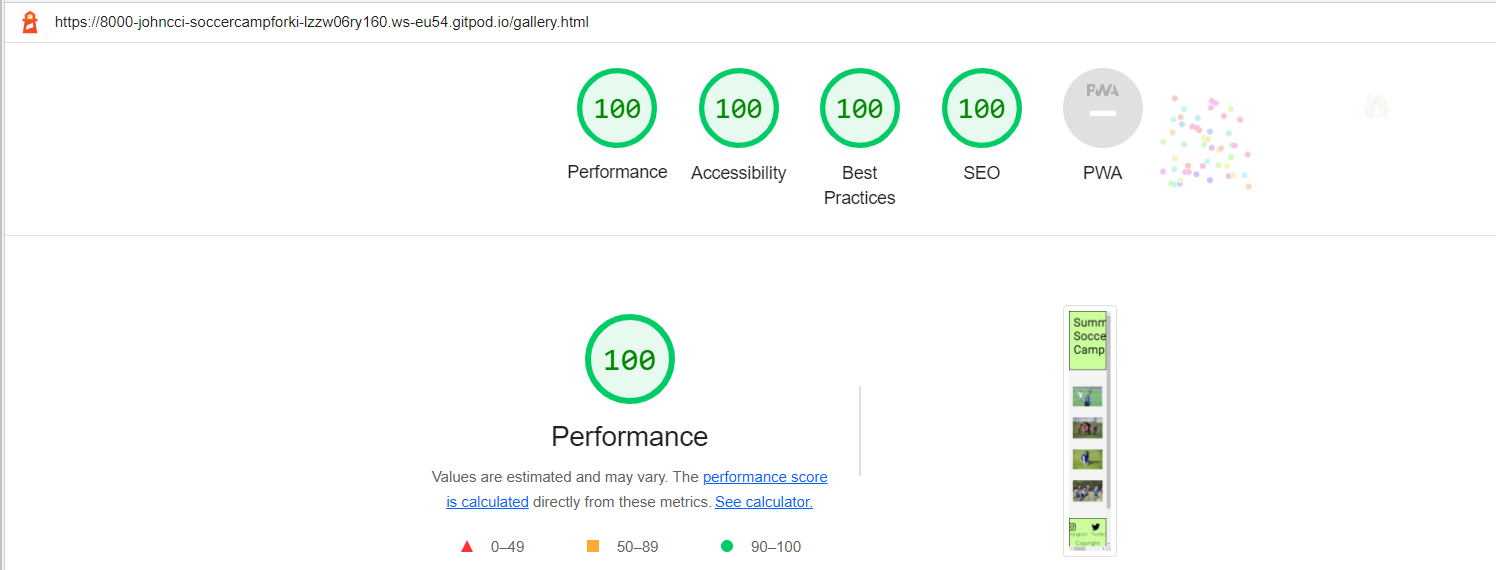
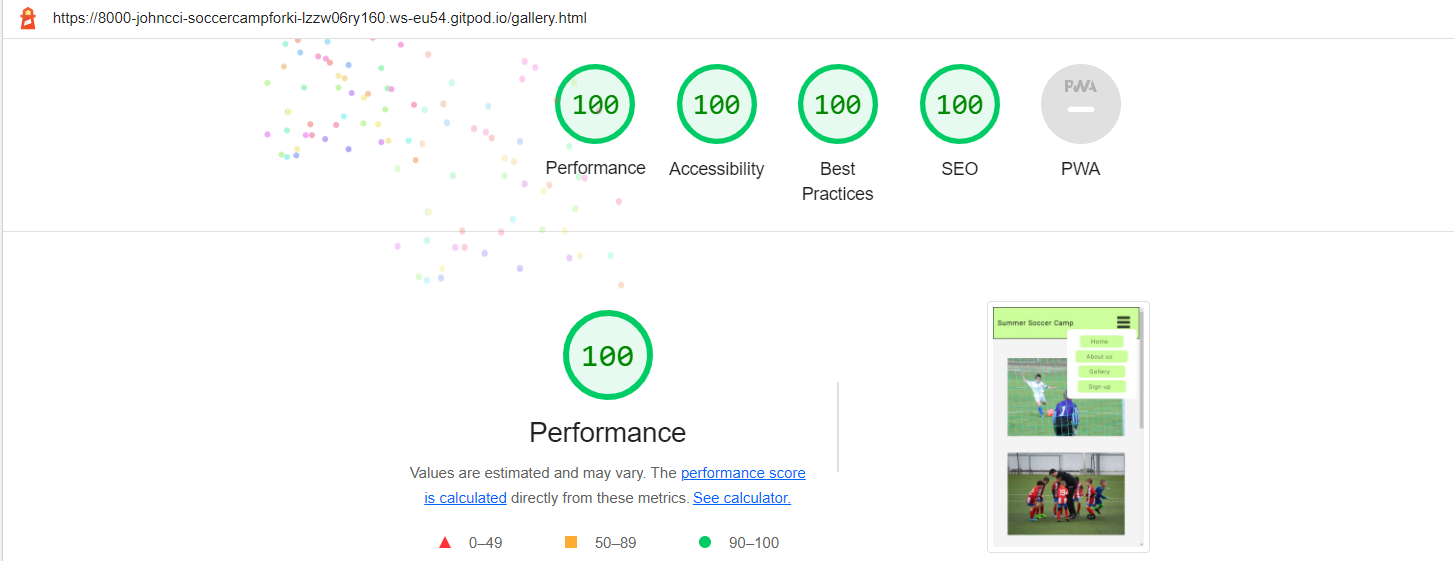
update lighthouse section to reflect improved scores by adding text and new images

diff --git a/README.md b/README.md
@@ -305,17 +305,17 @@ The other colours displayed on the site are whitesmoke and black. The whitesmoke
 
 ## <u>**LightHouse**</u>
 
-I applied the lighthouse tool to this project which is located in the Chrome Developer Tools. The four tests performed in this tool are:
+* I applied the lighthouse tool to this project which is located in the Chrome Developer Tools. There are four areas tested in the lighthouse test.
+
+
+  * Performance
+  * Accessibility
+  * Best Practices
+  * SEO
+
 <br>
 
-* Performance
-* Accessibility
-* Best Practices
-* SEO
-
-<br>
-
-### **Home Page**
+* Home Page
 
 The following images in this section are displayed as lighthouse desktop as the first image and lighthouse mobile as the second image.
 <br>
@@ -326,8 +326,7 @@ The following images in this section are displayed as lighthouse desktop as the 
 2. I used the website [ezgif.com](https://ezgif.com/) to address this problem. I resized image and this increased the performance score to 99 on the desktop devices and 93 on the mobile devices. the increase in score came directly as a result of these changes as confirmed through retesting.
 
 
-<img src="assets/images/lighthouse-desktop-home.png" alt="home page lighthouse score for desktop">
-<img src="assets/images/lighthouse-mobile-homepage.png" alt="home page lighthouse score for mobile">
+
 <br>
 
 ### **Gallery Page**
